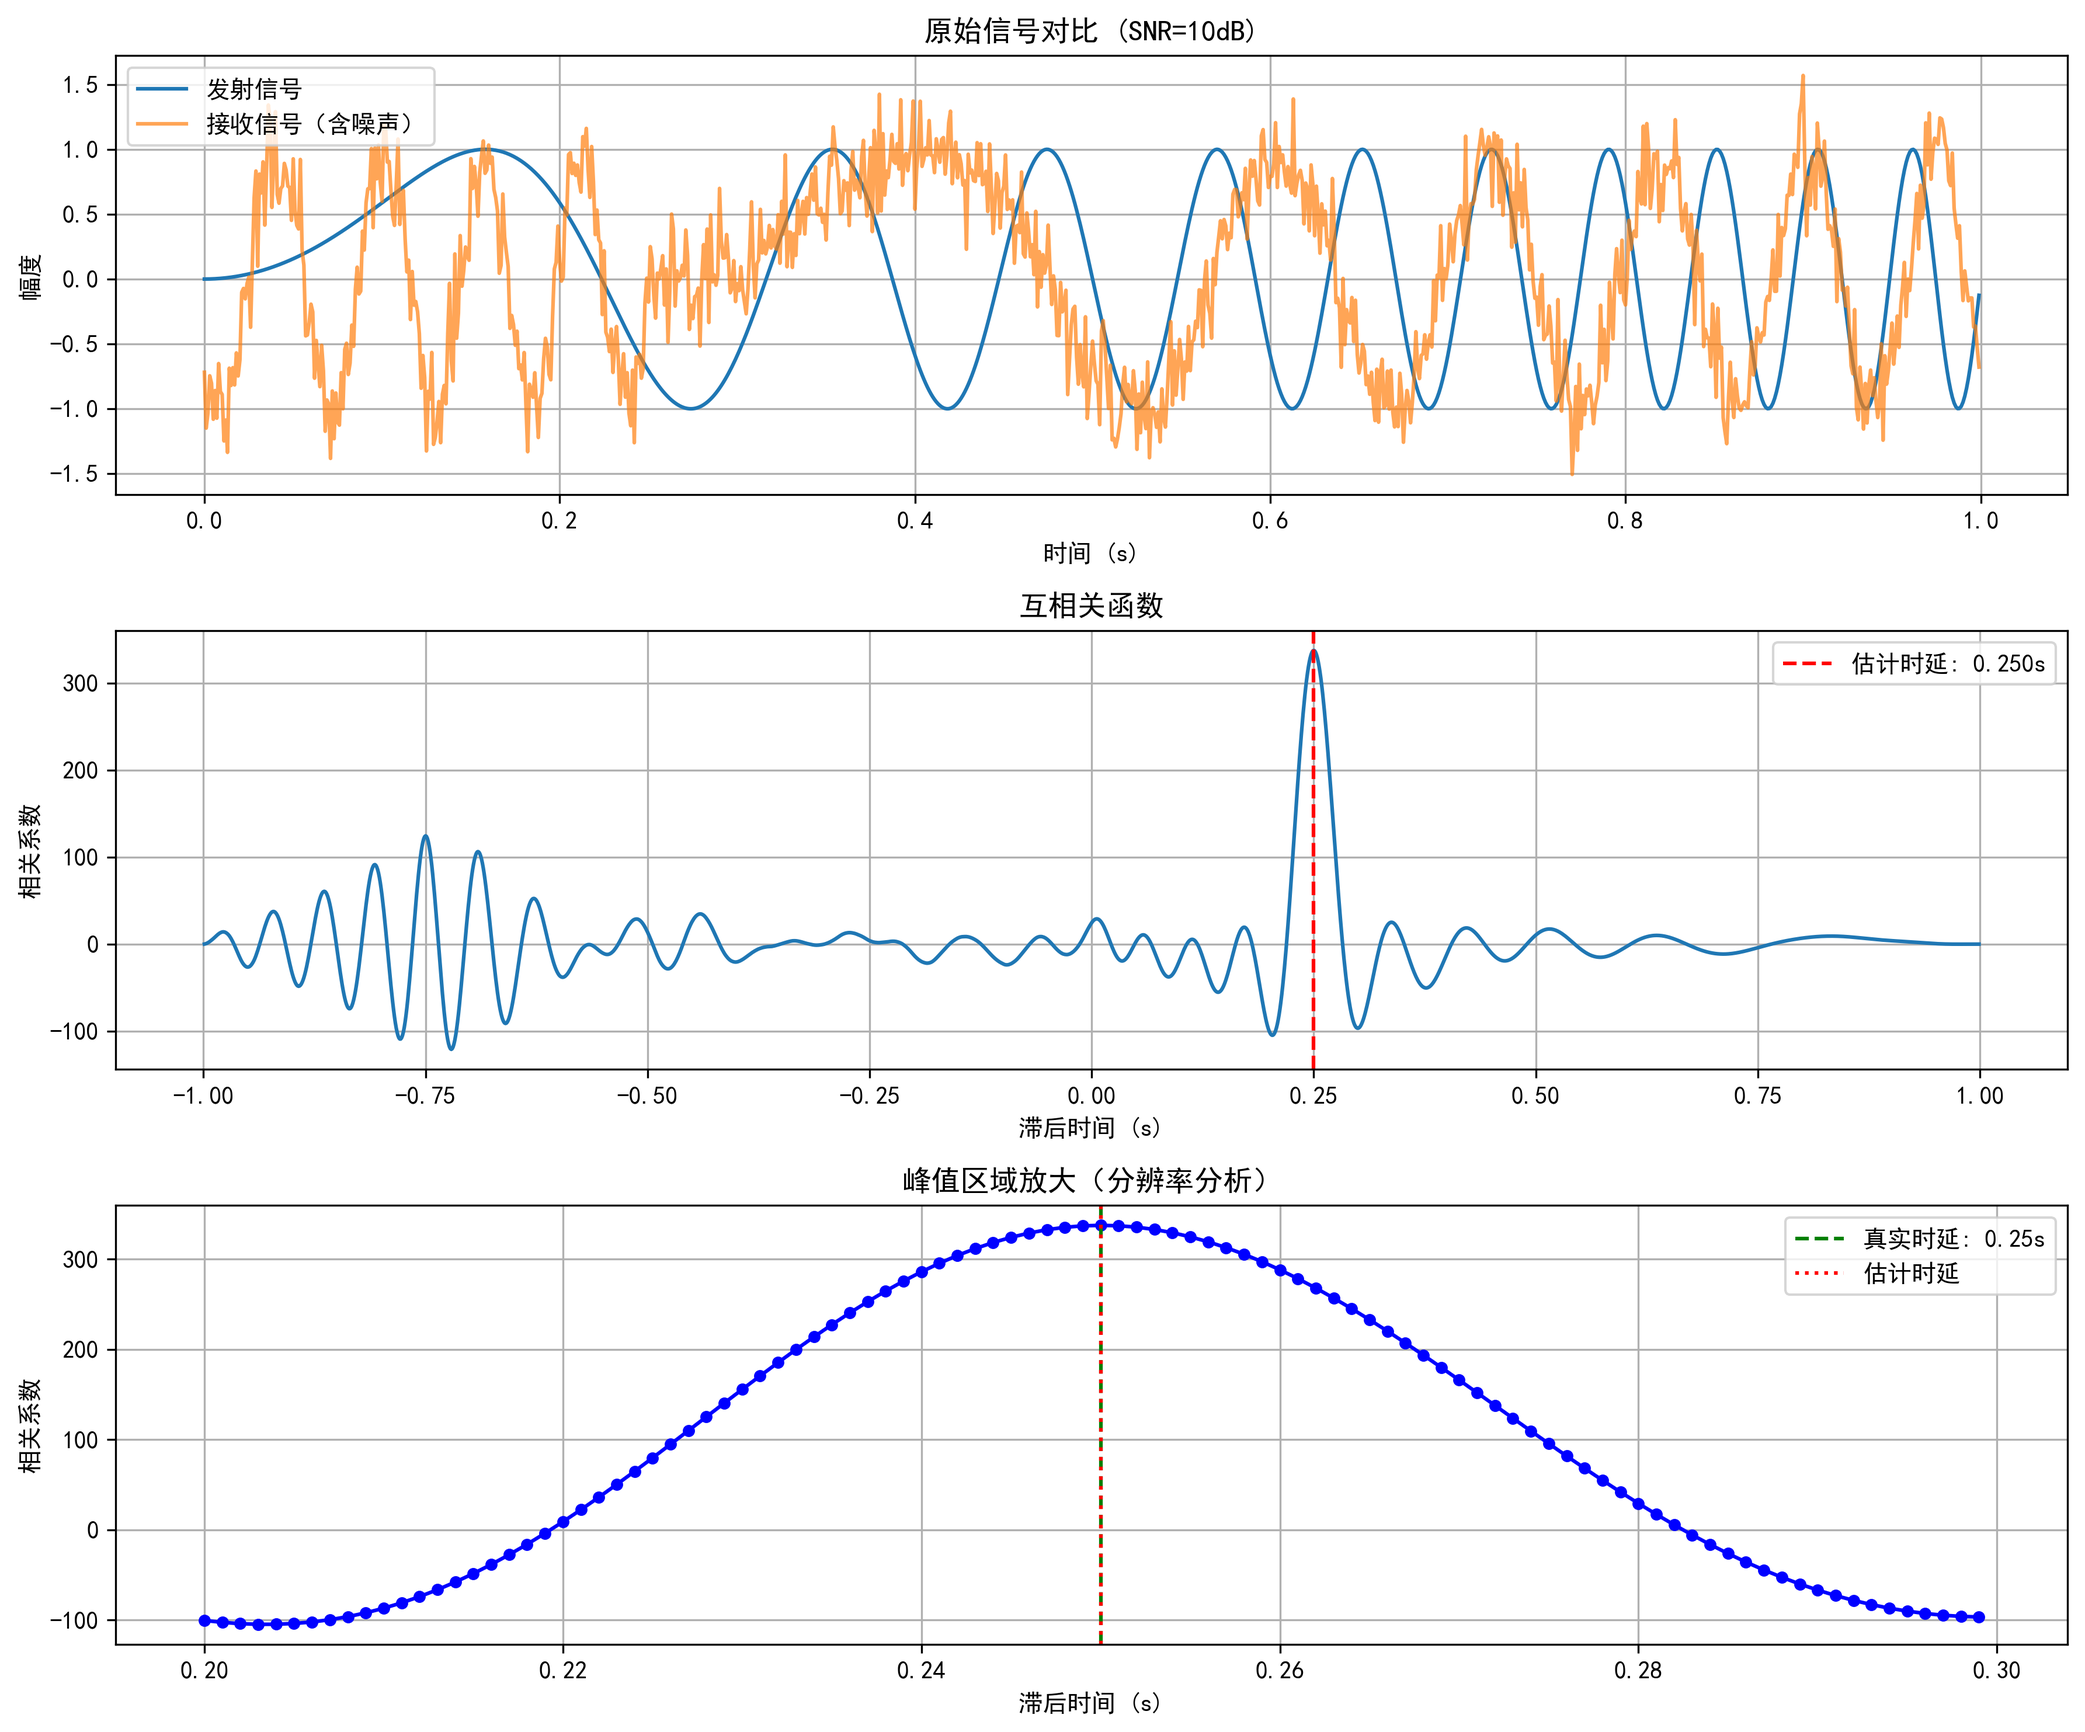
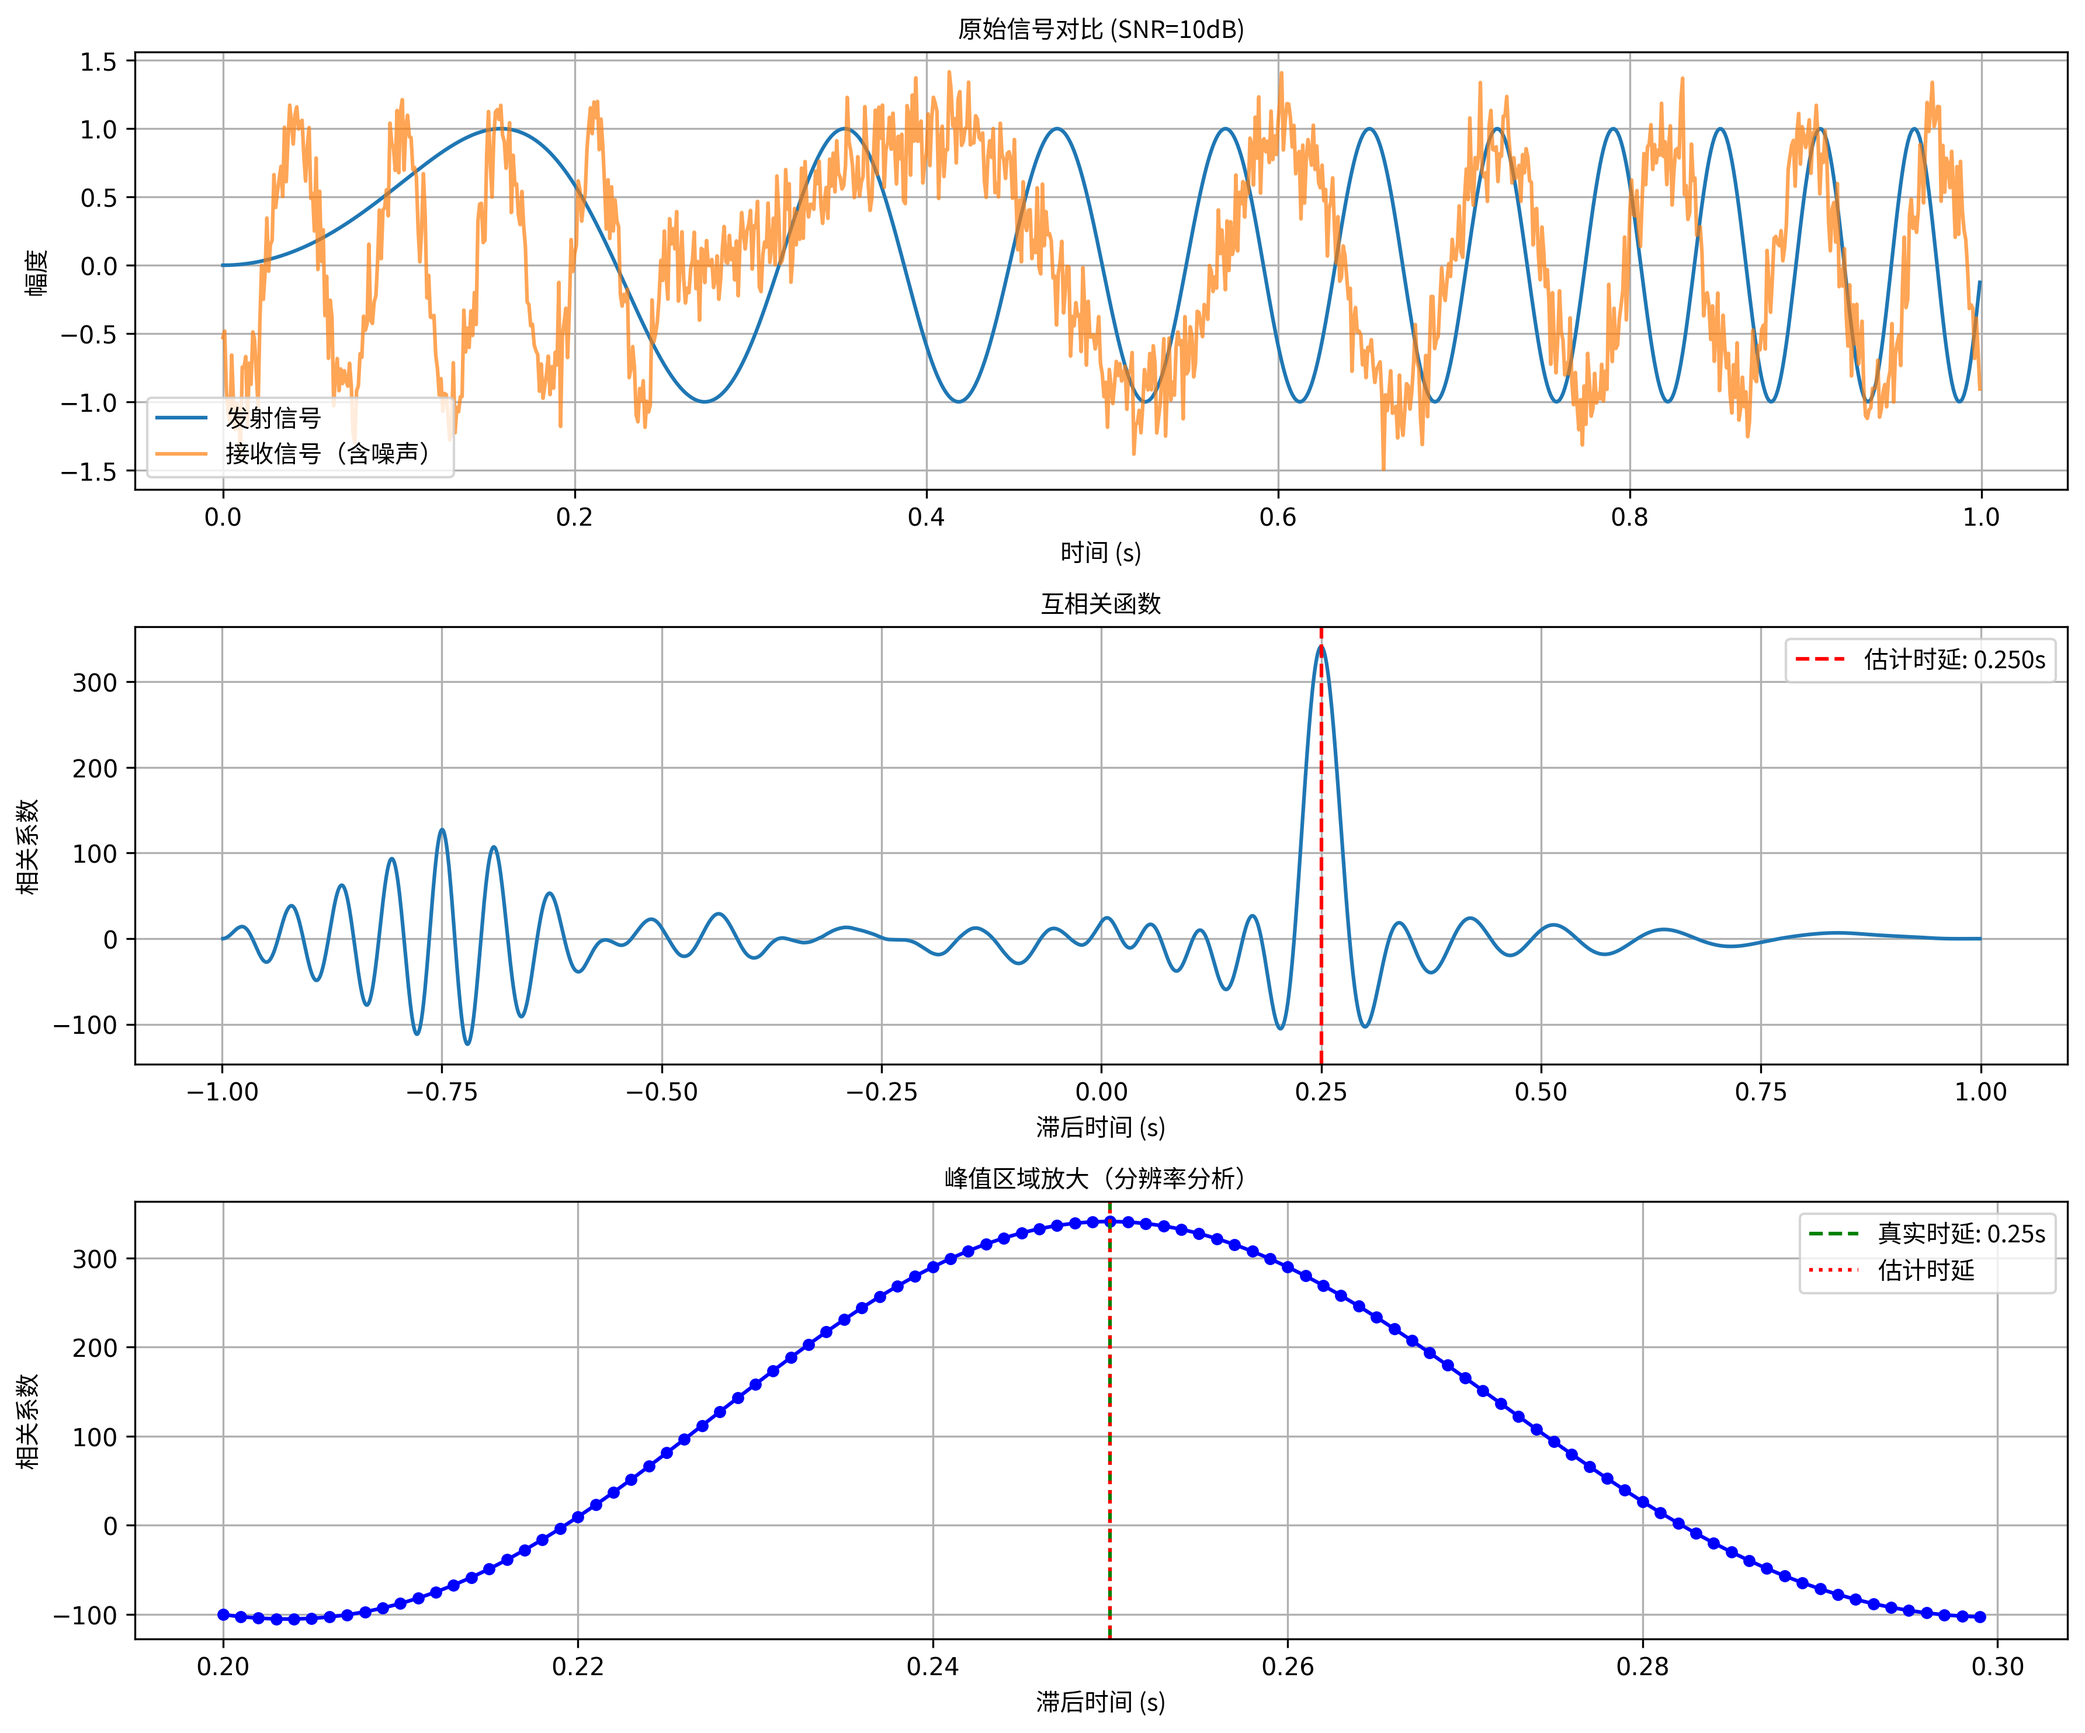
修正中文字体

diff --git a/ywn.py b/ywn.py
@@ -2,21 +2,30 @@
 相关信号应用仿真 - 时延估计（最终修正版）
 包含理论分析的代码注释和结果可视化
 """
+
 import numpy as np
 import matplotlib.pyplot as plt
+from matplotlib.font_manager import FontProperties
 from scipy.signal import correlate
+import matplotlib
+
+# 设置非交互式后端
+matplotlib.use('Agg')
+
+# 设置中文字体路径
+font_path = '/Users/kiana/Library/Fonts/NotoSansCJKsc-Regular.otf'
+myfont = FontProperties(fname=font_path)
 
 # ========================= 参数设置 =========================
-fs = 1000           # 采样率 (Hz)，决定时间分辨率
-T = 1               # 信号时长 (s)，影响频率分辨率
+fs = 1000           # 采样率 (Hz)
+T = 1               # 信号时长 (s)
 t = np.arange(0, T, 1/fs)  # 时间序列
-f0 = 10             # 基频 (Hz)，控制信号变化速率
-D_true = 0.25       # 真实时延 (s)，用于验证算法精度
-SNR = 10            # 信噪比 (dB)，控制噪声水平
+f0 = 10             # 基频 (Hz)
+D_true = 0.25       # 真实时延 (s)
+SNR = 10            # 信噪比 (dB)
 
 # ======================== 信号生成模块 ========================
-# 使用线性调频信号(LFM)因其良好的自相关特性：
-x = np.sin(2 * np.pi * f0 * t * t)  # 频率随时间平方增长
+x = np.sin(2 * np.pi * f0 * t * t)  # LFM信号
 
 # 生成接收信号（时延+噪声）：
 delay_samples = int(D_true * fs)
@@ -37,24 +46,16 @@ max_index = np.argmax(corr)
 D_estimated = lags[max_index] / fs
 
 # ====================== 结果可视化模块 ======================
-# 解决方案1：使用非交互式后端（推荐用于脚本运行）
-import matplotlib
-matplotlib.use('Agg')  # 设置为非交互式后端
-# 设置matplotlib的字体属性，使其支持中文显示
-matplotlib.rcParams['font.sans-serif'] = ['SimHei']  # 指定默认字体为黑体
-matplotlib.rcParams['axes.unicode_minus'] = False  # 解决保存图像是负号'-'显示为方块的问题
-
-# 重新创建图形对象
 plt.figure(figsize=(12, 10))
 
 # 子图1：原始信号对比
 plt.subplot(3, 1, 1)
 plt.plot(t, x, label='发射信号')
 plt.plot(t, y, label='接收信号（含噪声）', alpha=0.7)
-plt.xlabel('时间 (s)')
-plt.ylabel('幅度')
-plt.title(f'原始信号对比 (SNR={SNR}dB)')
-plt.legend()
+plt.xlabel('时间 (s)', fontproperties=myfont)
+plt.ylabel('幅度', fontproperties=myfont)
+plt.title(f'原始信号对比 (SNR={SNR}dB)', fontproperties=myfont)
+plt.legend(prop=myfont)
 plt.grid(True)
 
 # 子图2：完整互相关函数
@@ -62,35 +63,34 @@ plt.subplot(3, 1, 2)
 plt.plot(lags/fs, corr)
 plt.axvline(D_estimated, color='r', linestyle='--',
            label=f'估计时延: {D_estimated:.3f}s')
-plt.xlabel('滞后时间 (s)')
-plt.ylabel('相关系数')
-plt.title('互相关函数')
-plt.legend()
+plt.xlabel('滞后时间 (s)', fontproperties=myfont)
+plt.ylabel('相关系数', fontproperties=myfont)
+plt.title('互相关函数', fontproperties=myfont)
+plt.legend(prop=myfont)
 plt.grid(True)
 
 # 子图3：峰值区域放大
 plt.subplot(3, 1, 3)
 window = 50
 plt.plot(lags[max_index-window:max_index+window]/fs,
-        corr[max_index-window:max_index+window],
-        'b-o', markersize=4)
+         corr[max_index-window:max_index+window],
+         'b-o', markersize=4)
 plt.axvline(D_true, color='g', linestyle='--',
-           label=f'真实时延: {D_true}s')
+            label=f'真实时延: {D_true}s')
 plt.axvline(D_estimated, color='r', linestyle=':',
-           label='估计时延')
-plt.xlabel('滞后时间 (s)')
-plt.ylabel('相关系数')
-plt.title('峰值区域放大（分辨率分析）')
-plt.legend()
+            label='估计时延')
+plt.xlabel('滞后时间 (s)', fontproperties=myfont)
+plt.ylabel('相关系数', fontproperties=myfont)
+plt.title('峰值区域放大（分辨率分析）', fontproperties=myfont)
+plt.legend(prop=myfont)
 plt.grid(True)
 
 plt.tight_layout()
 
 # ==================== 结果输出与保存 ====================
-# 解决方案2：直接保存图像文件（避免显示操作）
 output_path = 'correlation_result.png'
 plt.savefig(output_path, dpi=300, bbox_inches='tight')
-plt.close()  # 显式关闭图形
+plt.close()
 
 print(f"[运行结果已保存至 {output_path}]")
 print("[时延估计结果]")
@@ -98,17 +98,3 @@ print(f"真实时延: {D_true:.3f} s")
 print(f"估计时延: {D_estimated:.3f} s")
 print(f"绝对误差: {abs(D_true - D_estimated):.5f} s")
 print(f"理论分辨率: {1/fs:.3f} s")
-
-"""
-关键修改说明：
-1. 强制使用非交互式后端（'Agg'），避免GUI相关错误
-2. 使用savefig直接保存图像，不进行屏幕显示
-3. 添加了plt.close()确保内存释放
-4. 输出结果包含图像保存路径信息
-
-运行方式：
-1. 在命令行直接执行：
-   python your_script.py
-2. 在Jupyter中需要移除matplotlib.use('Agg')设置
-3. 生成的correlation_result.png包含完整分析结果
-"""

diff --git a/test_chinese_font.py b/test_chinese_font.py
@@ -1,0 +1,60 @@
+import os
+import matplotlib.pyplot as plt
+from matplotlib import font_manager as fm
+from matplotlib.font_manager import FontProperties
+
+def print_available_noto_fonts():
+    print("🔍 正在搜索已注册的 Noto 字体名：")
+    found = False
+    for font in fm.fontManager.ttflist:
+        if 'Noto' in font.name or 'CJK' in font.name:
+            print(f"✅ 注册字体名: {font.name} ({font.fname})")
+            found = True
+    if not found:
+        print("⚠ 未找到任何已注册的 Noto 字体")
+
+def get_font_property():
+    # 尝试用注册字体名
+    preferred_fonts = ['Noto Sans CJK SC', 'NotoSansCJKsc', 'Noto Sans CJK SC Regular']
+    for name in preferred_fonts:
+        try:
+            prop = FontProperties(family=name)
+            # 通过 fontManager 找到文件路径
+            if fm.findfont(prop, fallback_to_default=False):
+                print(f"✅ 使用字体名: {name}")
+                return prop
+        except Exception as e:
+            pass
+
+    # 否则尝试通过文件路径加载
+    font_path = os.path.expanduser("~/Library/Fonts/NotoSansCJKsc-Regular.otf")
+    if os.path.exists(font_path):
+        print(f"✅ 通过路径加载字体文件: {font_path}")
+        return FontProperties(fname=font_path)
+    else:
+        print(f"❌ 字体文件路径不存在: {font_path}")
+        return None
+
+def draw_plot_with_chinese(font_prop):
+    plt.figure(figsize=(6, 4))
+    plt.title("中文字体测试：你好，世界", fontproperties=font_prop)
+    plt.xlabel("横轴：时间", fontproperties=font_prop)
+    plt.ylabel("纵轴：幅度", fontproperties=font_prop)
+    plt.plot([0, 1, 2], [1, 4, 9], label="样例数据")
+    plt.legend(prop=font_prop)
+    plt.grid(True)
+    plt.tight_layout()
+    plt.savefig("font_test_result.png")
+    print("✅ 图像已保存为 font_test_result.png")
+    plt.show()
+
+if __name__ == '__main__':
+    print("== 检查字体安装 ==")
+    print_available_noto_fonts()
+    print("\n== 设置字体 ==")
+    font_prop = get_font_property()
+    if font_prop:
+        print("\n== 绘图测试 ==")
+        draw_plot_with_chinese(font_prop)
+    else:
+        print("❌ 无法设置中文字体，请检查字体是否安装成功")
